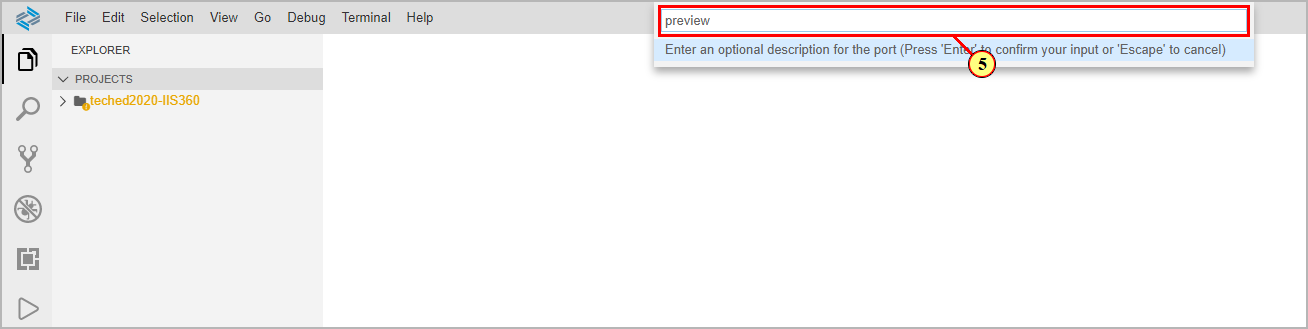
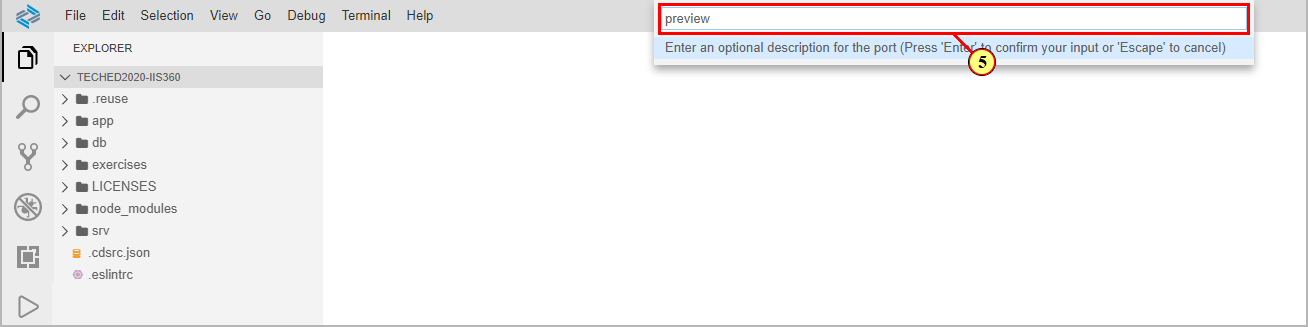
ex0 readme

diff --git a/exercises/ex0/README.md b/exercises/ex0/README.md
@@ -56,29 +56,48 @@ Once your development space has status running, click on the development space n
 
 ![enter dev space](../ex0/images/00_00_0060.png)
 
-Open a workspace by clicking the button in the project explorer
+## Get the sample scenario
+
+Get the GitHub repository clone Url from the repositories [root page](https://github.com/SAP-samples/teched2020-IIS360).\
+Click on button **Code** (1), then click icon (2).
+
+![copy link](../ex0/images/00_00_0070.png)
+
+In the dev space, you will see a **Welcome Page**.\
+Click on the link **Clone from Git**.
+
+![Click on link "Clone from Git"](../ex0/images/click-clone-from-git.png)
+
+Alternatively, you can go via menu **View->Find Command...** and search for command **git clone**.
+
+![command git clone](../ex0/images/cloneCommand.png)
+
+Paste the repository link into the input field.
+
+```abap
+https://github.com/SAP-samples/teched2020-IIS360.git
+```
+
+![Enter the github repository URL](../ex0/images/enter-github-repository.png)
+
+When the cloning is finished, open a workspace by clicking the button in the project explorer
 
 ![open workspace](../ex0/images/00_00_0065.png)
 
-Select folder **projects** and click **Open**
+Select folder **teched2020-IIS360** and click **Open**.
 
 ![select ws folder](../ex0/images/00_00_0066.png)
-
-## Get the sample scenario
-
-Access the Github Repository via [this link](https://github.com/SAP-samples/teched2020-IIS360)\
-Click on the button **Code** (1), then click on the icon (2) to copy the git clone link.
-
-![copy link](../ex0/images/00_00_0070.png)
 
 (3) Open a new terminal via the header menu.
 
 ![new terminal](../ex0/images/00_00_0080.png)
 
-In the terminal window, type the following commands and confirm with return:
-- cd projects
-- git clone https://github.com/SAP-samples/teched2020-IIS360.git (you can paste the copied link here)
-- cd teched2020-IIS360
+In the terminal window, make sure that the command line prompt shows folder **teched2020-IIS360**.
+
+![command line prompt](../ex0/images/00_00_0081.png)
+
+Type the following commands and confirm with return:
+
 - npm install (this installs all node modules as defined in the projects package.json)
 - cds w (this compiles the service and runs it in watch mode)
 
